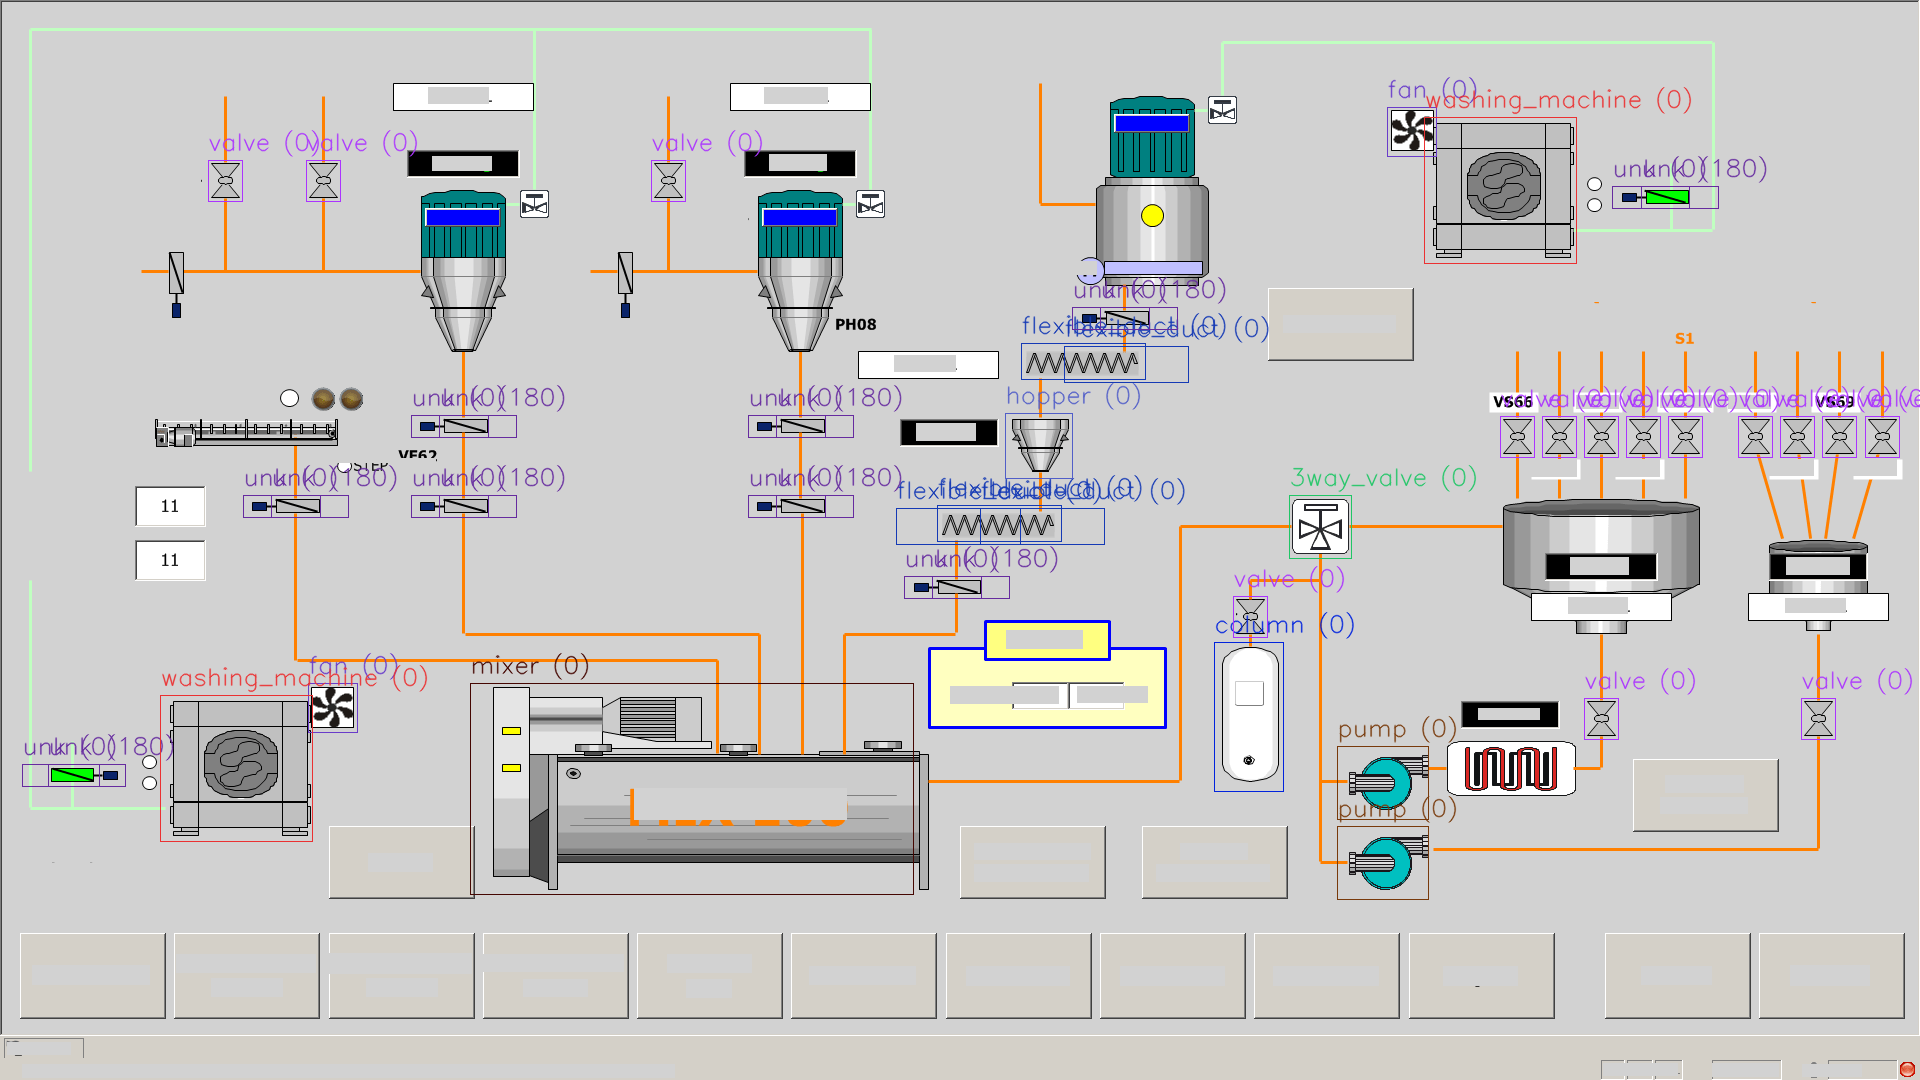
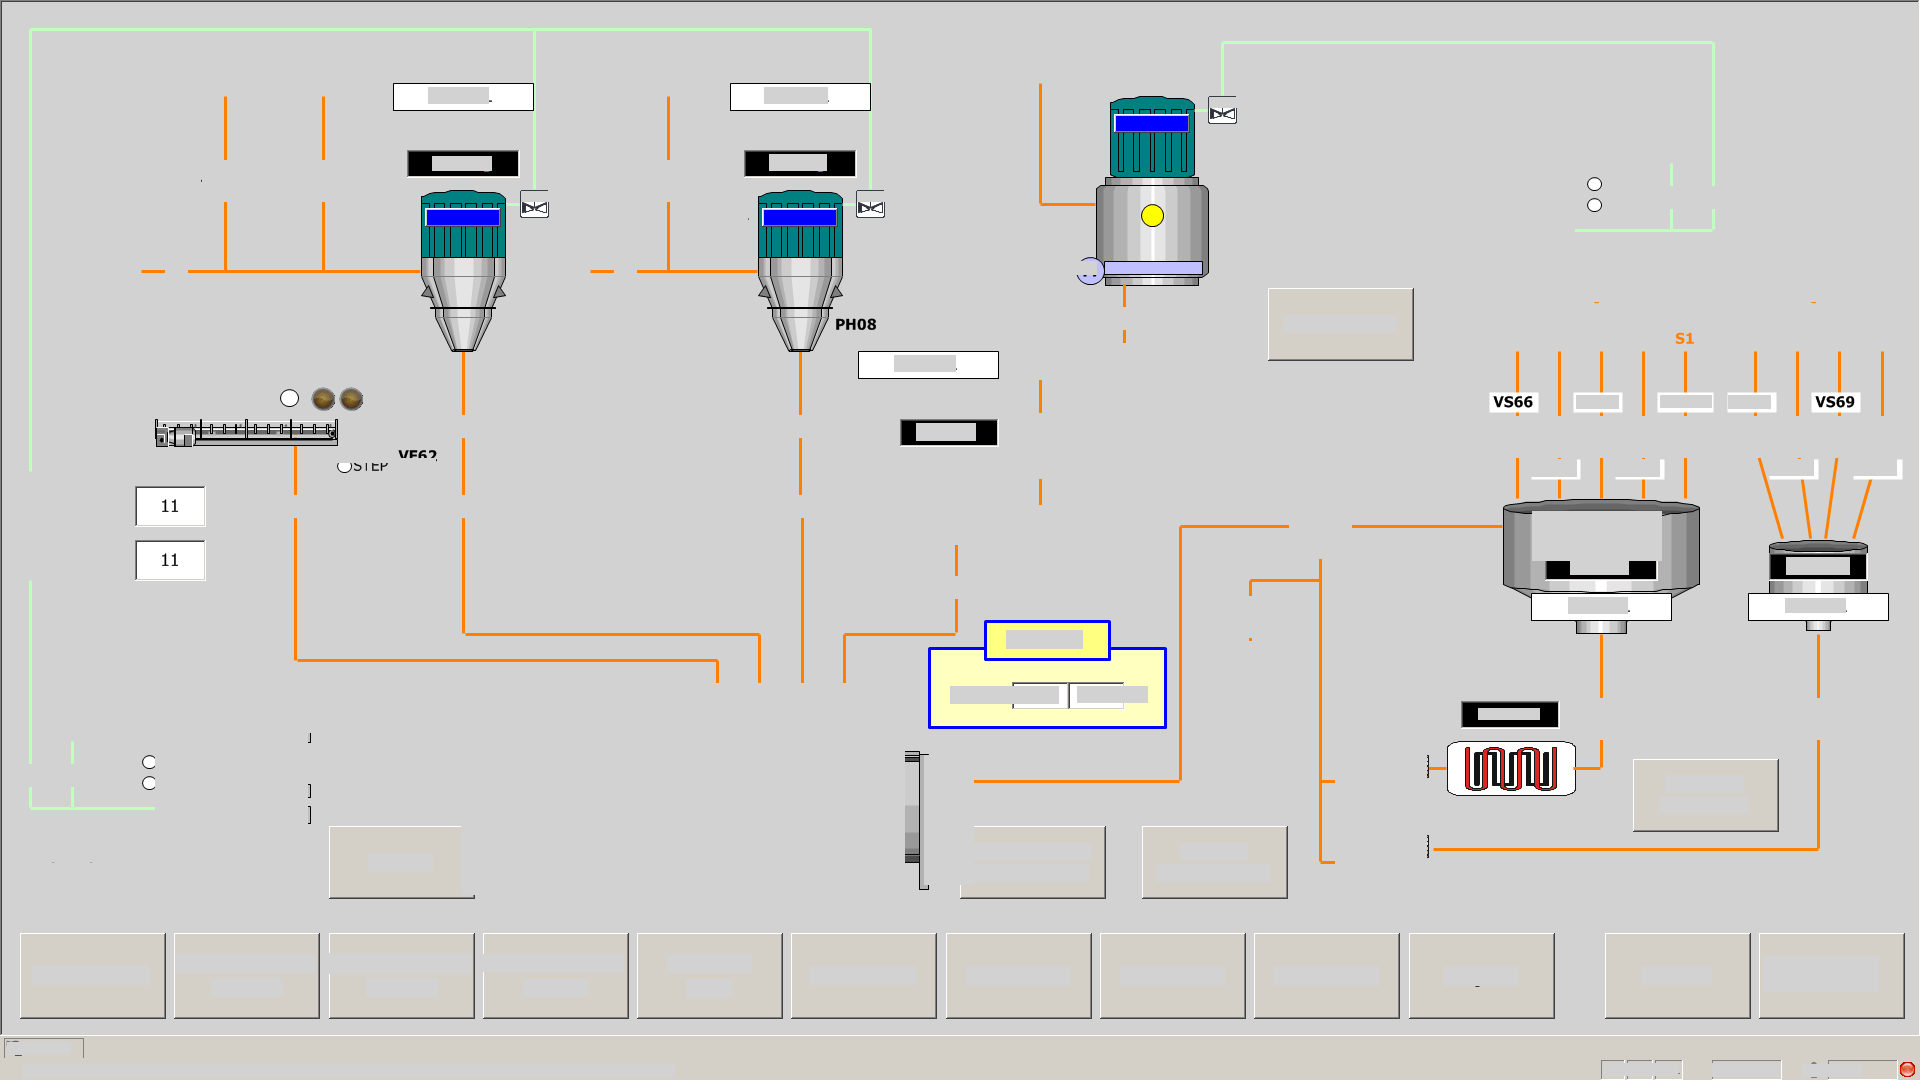
Upgrade template_matching

diff --git a/main.py b/main.py
@@ -34,7 +34,7 @@ def ReSin_config():
     # TEMPLATE MATCHING
     parser.add_argument('--template_library', type=str, default='library/', help='Template folder')
     parser.add_argument('--template_output', type=str, default='output_template/', help='Output Post-TemplateMatching folder')
-    parser.add_argument('--template_confidence_threshold', type=float, default='0.6', help='OCR Confidence threshold')
+    parser.add_argument('--template_confidence_threshold', type=float, default='0.55', help='OCR Confidence threshold')
     parser.add_argument('--iou_confidence_threshold', type=float, default='0.5', help='OCR Confidence threshold')
 
 
@@ -238,6 +238,8 @@ def text_detection(input_path, output_path, language, ocr_confidence_threshold):
 
                 draw = ImageDraw.Draw(image)
 
+                text_detections = []  # Lista para almacenar las detecciones de texto
+
                 for text_line in detection[0].text_lines:
                     # Extraer las coordenadas de la Bounding Box
                     x_min, y_min = int(text_line.bbox[0]), int(text_line.bbox[1])
@@ -256,10 +258,6 @@ def text_detection(input_path, output_path, language, ocr_confidence_threshold):
                     font_height = (text_line.bbox[3] - text_line.bbox[1]) * 0.9
 
                     # Ajustar el tamaño del texto basado en el rango del font_height
-                    # Si el font height es menor a 10, será 15.
-                    # Si el font height es entre 10-20 será 15.
-                    # Si el font height es entre 20-30 será 25.
-                    # Si el font height es entre 30-40 será 35.
                     if 0 <= font_height <= 20:
                         font_size = 15
                     elif 20 < font_height <= 30:
@@ -281,13 +279,23 @@ def text_detection(input_path, output_path, language, ocr_confidence_threshold):
                         font_family="Tahoma"
                     ))
 
+                    # Añadir la detección de texto con el flag
+                    text_detections.append({
+                        "bbox": [x_min, y_min, x_max, y_max],
+                        "text": text_line.text,
+                        "flag": "text"
+                    })
+
                 # Guardar la imagen procesada con las Bounding Boxes sustituidas
                 image.save(output_path_PNG)
                 output_svg.save()
-                output_images.append([output_path_PNG, output_path_SVG])
+
+                # Agregar las detecciones con el flag a la salida
+                output_images.append([output_path_PNG, output_path_SVG, text_detections])
 
     print("OCR text detection completado.")
     return output_images
+
 
 
 # Template matching
@@ -327,13 +335,16 @@ def calculate_iou(box1, box2):
 def TemplateMatching(processed_images, output_path, library_path, template_threshold, iou_threshold):
     if not processed_images:
         print("No hay imágenes procesadas para analizar.")
-        return
+        return []
 
     if not os.path.exists(output_path):
         os.makedirs(output_path)
 
     # Colores únicos para las clases
     class_colors = {}
+
+    # Lista de resultados para devolver
+    output_images = []
 
     # Iterar sobre las imágenes procesadas
     for image_pair in processed_images:
@@ -397,28 +408,25 @@ def TemplateMatching(processed_images, output_path, library_path, template_thres
                         if not overlaps:
                             detections.append((bbox[0], bbox[1], bbox[2], bbox[3], rotation_angle, class_name))
 
-        # Dibujar las detecciones iniciales
-        for x, y, w, h, rotation, class_name in detections:
-            if class_name not in class_colors:
-                class_colors[class_name] = f"rgb({random.randint(0, 255)}, {random.randint(0, 255)}, {random.randint(0, 255)})"
-
-            color = tuple(int(c) for c in class_colors[class_name].strip("rgb()").split(","))
-            rotation_display = rotation if rotation in [90, 180, 270] else 0
-            cv2.rectangle(input_image, (x, y), (x + w, y + h), color, 1)
-            cv2.putText(input_image, f"{class_name} ({rotation_display})", (x, y - 10), cv2.FONT_HERSHEY_SIMPLEX, 0.8, color, 1, cv2.LINE_AA)
-
-        output_template_png_path = os.path.join(output_path, os.path.basename(png_path))
-        cv2.imwrite(output_template_png_path, input_image)
-        print(f"Imagen inicial guardada con las detecciones de la librería: {output_template_png_path}")
-
         # Guardar las detecciones iniciales
         all_detections = detections.copy()
 
         while True:
-            roi = cv2.selectROI("Selecciona la plantilla", input_image, showCrosshair=True)
+            # Mostrar todas las bounding boxes acumuladas con clases y rotaciones en una copia temporal
+            temp_image = input_image.copy()
+            for x, y, w, h, rotation, class_name in all_detections:
+                if class_name not in class_colors:
+                    class_colors[class_name] = f"rgb({random.randint(0, 255)}, {random.randint(0, 255)}, {random.randint(0, 255)})"
+
+                color = tuple(int(c) for c in class_colors[class_name].strip("rgb()").split(","))
+                rotation_display = rotation if rotation in [90, 180, 270] else 0
+                cv2.rectangle(temp_image, (x, y), (x + w, y + h), color, 2)
+                cv2.putText(temp_image, f"{class_name} ({rotation_display})", (x, y - 10), cv2.FONT_HERSHEY_SIMPLEX, 0.8, color, 1, cv2.LINE_AA)
+
+            # Selección de ROI
+            roi = cv2.selectROI("Selecciona la plantilla", temp_image, showCrosshair=True)
             cv2.destroyWindow("Selecciona la plantilla")
 
-            # Verificar si el usuario presionó ESC o seleccionó una región inválida
             if roi[2] == 0 or roi[3] == 0:
                 print("Selección terminada o región inválida.")
                 break
@@ -444,88 +452,34 @@ def TemplateMatching(processed_images, output_path, library_path, template_thres
             if not os.path.exists(templates_folder):
                 os.makedirs(templates_folder)
 
-            # Guardar el template original y sus variaciones
-            iteration = 0
-            height, width = template.shape[:2]
+            # Guardar el template original
+            cv2.imwrite(os.path.join(templates_folder, "template.png"), template)
 
-            # Aumentar dimensiones iterativamente
-            while width < 2 * template.shape[1] and height < 2 * template.shape[0]:
-                if iteration % 2 == 0:
-                    width += 2
-                else:
-                    height += 2
+            # Agregar detección basada en la ROI seleccionada
+            new_detection = (int(roi[0]), int(roi[1]), int(roi[2]), int(roi[3]), 0, class_name)
+            all_detections.append(new_detection)
 
-                resized_template = cv2.resize(template, (width, height))
-                cv2.imwrite(os.path.join(templates_folder, f"template_increase_{iteration}.png"), resized_template)
-                iteration += 1
+        # Pintar bounding boxes finales con el color predominante
+        most_color = get_dominant_color(png_path)
+        most_color = tuple(map(int, most_color[::-1]))  # Convertir a formato BGR
+        for x, y, w, h, rotation, class_name in all_detections:
+            cv2.rectangle(input_image, (x, y), (x + w, y + h), most_color, -1)
 
-            # Reducir dimensiones iterativamente
-            width, height = template.shape[1], template.shape[0]
-            iteration = 0
+        # Guardar el resultado final
+        output_template_png_path = os.path.join(output_path, os.path.basename(png_path))
+        cv2.imwrite(output_template_png_path, input_image)
+        print(f"Imagen actualizada con las nuevas detecciones encontradas: {output_template_png_path}")
 
-            while width > template.shape[1] // 2 and height > template.shape[0] // 2:
-                if iteration % 2 == 0:
-                    width -= 2
-                else:
-                    height -= 2
+        # Llamar a insert_detected_svgs para insertar los elementos SVG detectados
+        insert_detected_svgs(all_detections, library_path, processed_images, output_path)
 
-                resized_template = cv2.resize(template, (max(width, 1), max(height, 1)))
-                cv2.imwrite(os.path.join(templates_folder, f"template_decrease_{iteration}.png"), resized_template)
-                iteration += 1
+        # Agregar el flag justo antes de retornar el valor
+        flagged_detections = [det + ("elemento",) for det in all_detections]
 
-            print(f"Variaciones de plantilla guardadas en la carpeta 'templates' para la clase '{class_name}'.")
+        # Agregar a la lista de resultados
+        output_images.append([output_template_png_path, svg_path, flagged_detections])
 
-            # Aplicar template matching para la clase seleccionada
-            new_detections = []
-            for template_file in os.listdir(templates_folder):
-                template_path = os.path.join(templates_folder, template_file)
-                template = cv2.imread(template_path, cv2.IMREAD_GRAYSCALE)
-
-                if template is None:
-                    continue
-
-                for rotation_angle in [0, 90, 180, 270]:
-                    rotated_template = template
-                    if rotation_angle != 0:
-                        rotated_template = cv2.rotate(template, {
-                            90: cv2.ROTATE_90_CLOCKWISE,
-                            180: cv2.ROTATE_180,
-                            270: cv2.ROTATE_90_COUNTERCLOCKWISE
-                        }[rotation_angle])
-
-                    result = cv2.matchTemplate(gray_image, rotated_template, cv2.TM_CCOEFF_NORMED)
-                    locations = np.where(result >= template_threshold)
-
-                    for point in zip(*locations[::-1]):
-                        top_left = point
-                        bbox = (top_left[0], top_left[1], rotated_template.shape[1], rotated_template.shape[0])
-
-                        overlaps = False
-                        for existing_bbox in all_detections:
-                            if calculate_iou(bbox, existing_bbox[:4]) > iou_threshold:
-                                overlaps = True
-                                break
-
-                        if not overlaps:
-                            new_detections.append((bbox[0], bbox[1], bbox[2], bbox[3], rotation_angle, class_name))
-
-            all_detections.extend(new_detections)
-
-            for x, y, w, h, rotation, class_name in new_detections:
-                if class_name not in class_colors:
-                    class_colors[class_name] = f"rgb({random.randint(0, 255)}, {random.randint(0, 255)}, {random.randint(0, 255)})"
-
-                color = tuple(int(c) for c in class_colors[class_name].strip("rgb()").split(","))
-                rotation_display = rotation if rotation in [90, 180, 270] else 0
-                cv2.rectangle(input_image, (x, y), (x + w, y + h), color, 1)
-                cv2.putText(input_image, f"{class_name} ({rotation_display})", (x, y - 10), cv2.FONT_HERSHEY_SIMPLEX, 0.8, color, 1, cv2.LINE_AA)
-
-            cv2.imwrite(output_template_png_path, input_image)
-            print(f"Imagen actualizada con las nuevas detecciones encontradas: {output_template_png_path}")
-
-    insert_detected_svgs(all_detections, library_path, processed_images, output_path)
-
-
+    return output_images
 
 def limpiar_namespaces(element):
     """Remueve los namespaces de los elementos XML."""
